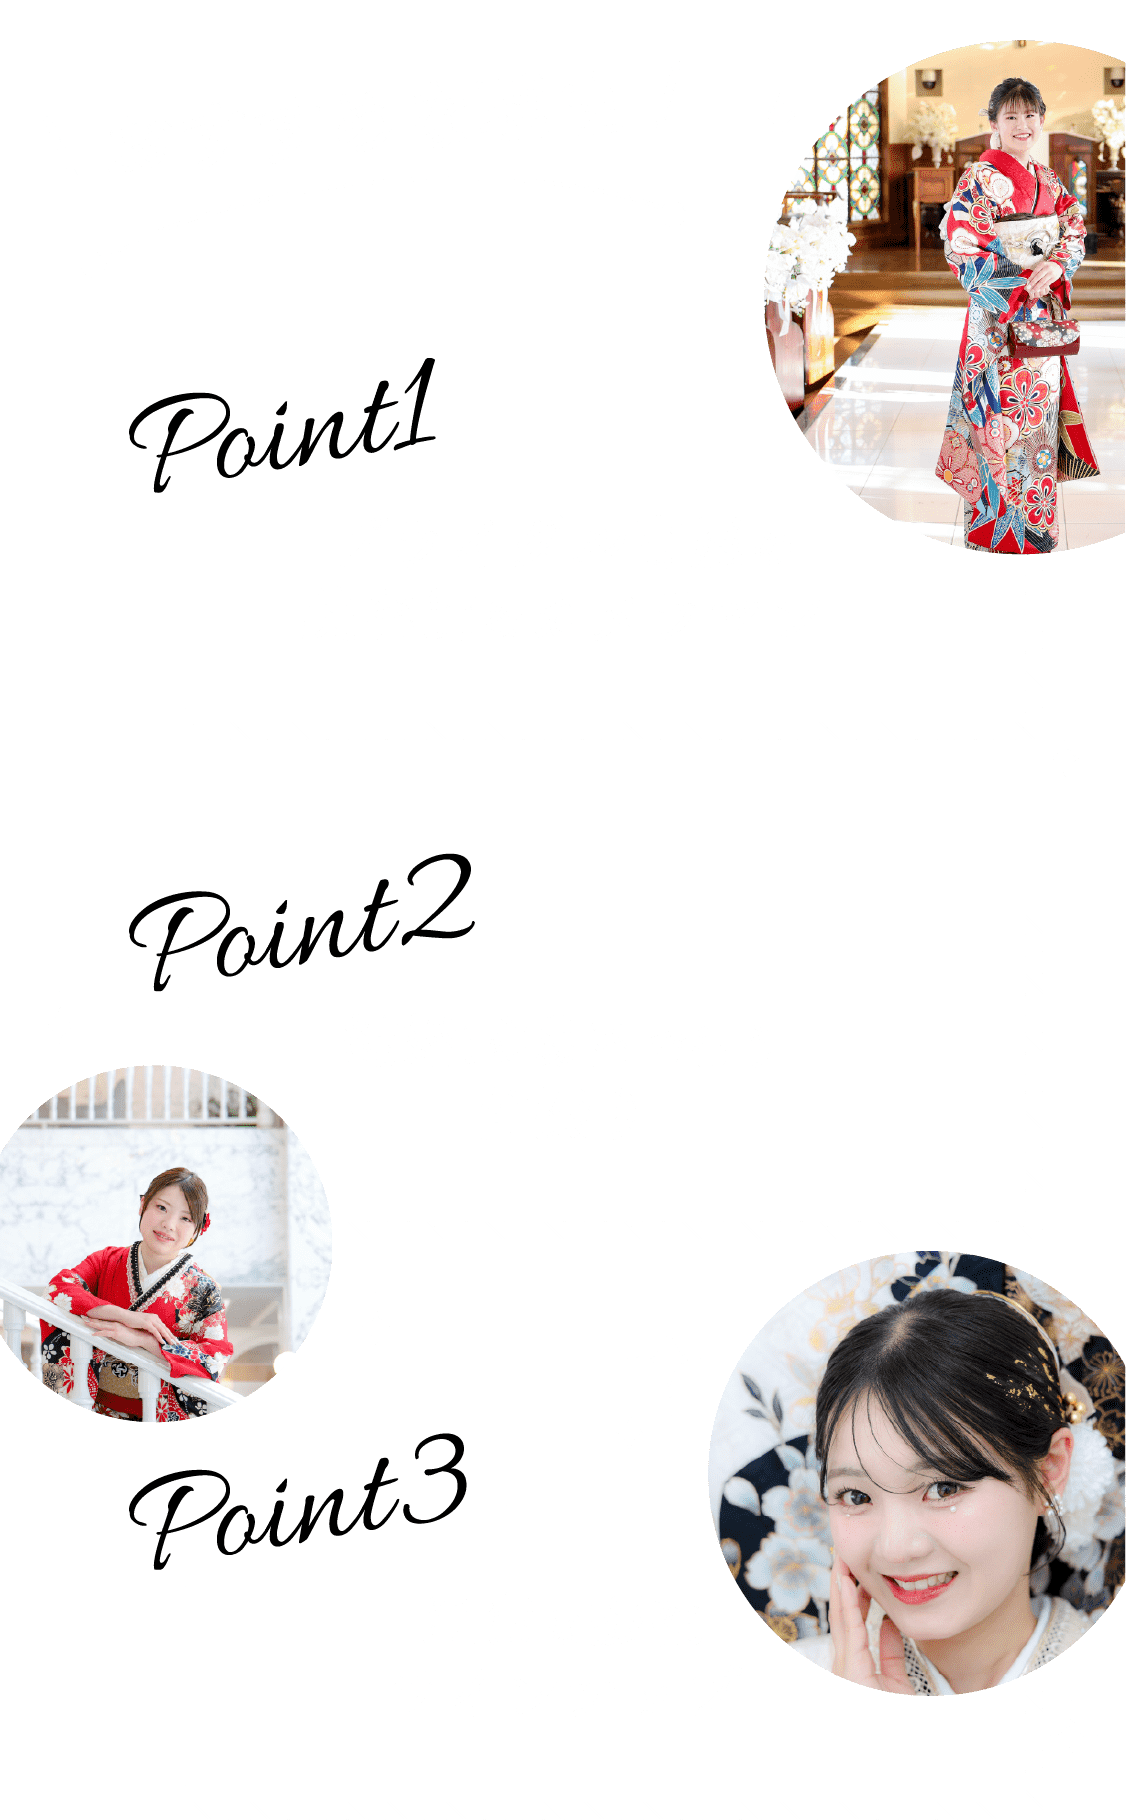
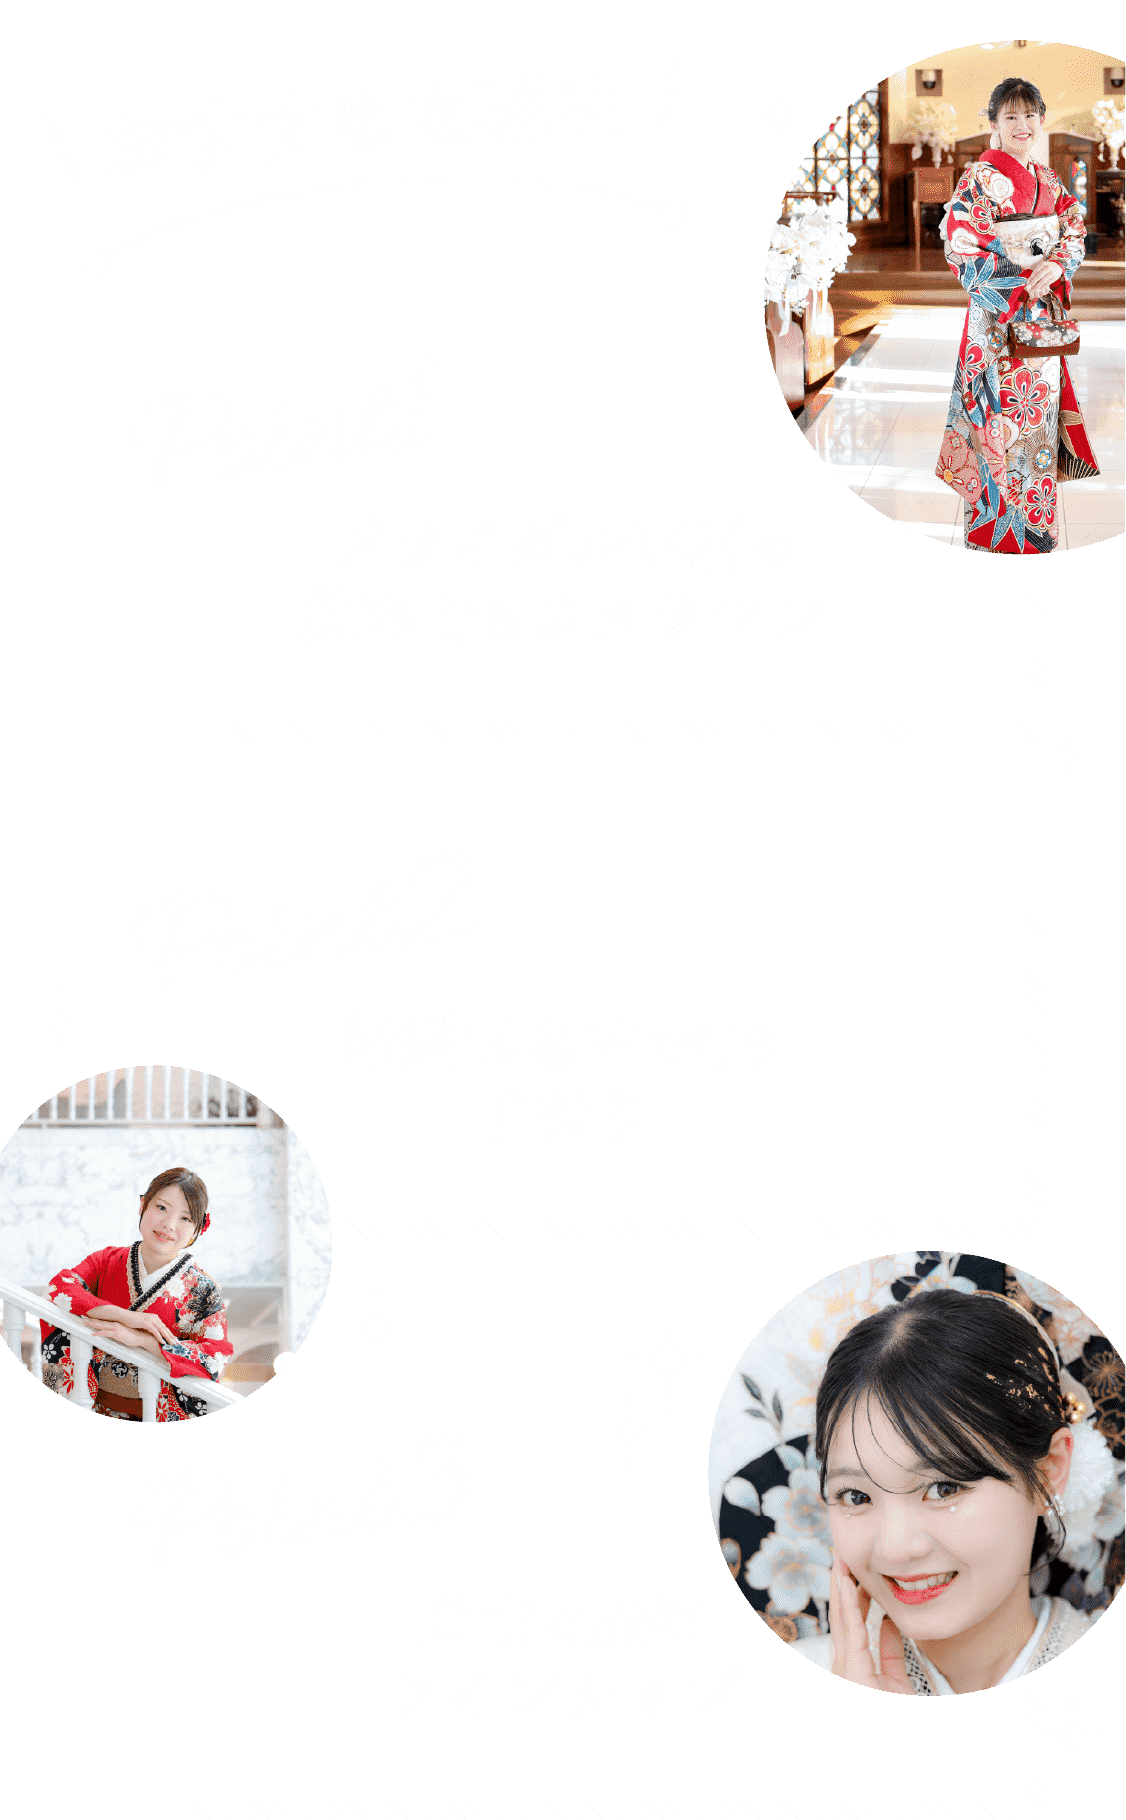
# 002:feature: 画像追加

diff --git a/public/rcs_seijin/index.html b/public/rcs_seijin/index.html
@@ -39,13 +39,23 @@
 			</div>
 		</div>
 		<div class="pre wow fadeIn">
-			
-			<picture>
-				<source src="./_assets/img/webp/intro.webp" type="image/webp" loading="lazy">
-				<source src="./_assets/img/intro.png" type="image/png">
-				<img src="./_assets/img/intro.png" width="100%" height="auto" alt="ロイヤルチェスター佐賀成人式展示会" loading="lazy">
-			</picture>
-			
+			<div class="wrap">
+				<picture>
+					<source src="./_assets/img/webp/tokuten.webp" type="image/webp" loading="lazy">
+					<source src="./_assets/img/tokuten.png" type="image/png">
+					<img src="./_assets/img/tokuten.png" width="100%" height="auto" alt="ロイヤルチェスター佐賀成人式展示会" loading="lazy">
+				</picture>
+			</div>
+		</div>
+
+		<div class="pre wow fadeIn">
+			<div class="wrap_harf">
+				<picture>
+					<source src="./_assets/img/webp/intro.webp" type="image/webp" loading="lazy">
+					<source src="./_assets/img/intro.png" type="image/png">
+					<img src="./_assets/img/intro.png" width="100%" height="auto" alt="ロイヤルチェスター佐賀成人式展示会" loading="lazy">
+				</picture>
+			</div>
 		</div>
 		<div class="pre wow fadeIn">
 			<div class="wrap_osusume">

diff --git a/public/rcs_seijin/_assets/css/index.css b/public/rcs_seijin/_assets/css/index.css
@@ -80,9 +80,21 @@ a:hover {
 .ad5{
 	animation-delay: 0.5s;
 }
-
+.wrap_harf{
+	display: block;
+	width: 50%;
+	margin: 50px auto;
+}
+.wrap{
+	display: block;
+	width: 80%;
+	margin: 15px auto;
+}
 .wrap_osusume{
 	background-image: url("../img/osusume-bg.png");
+	background-size: cover;
+	background-repeat: no-repeat;
+	background-position: center;
 }
 
 /* --- お問合せ --- */
